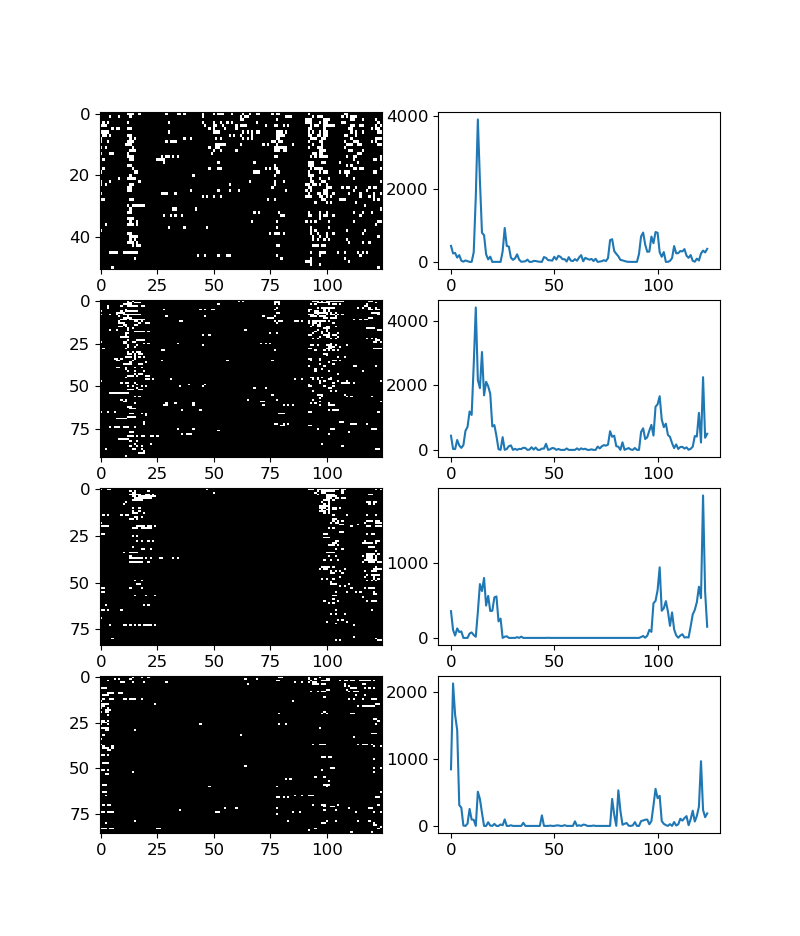
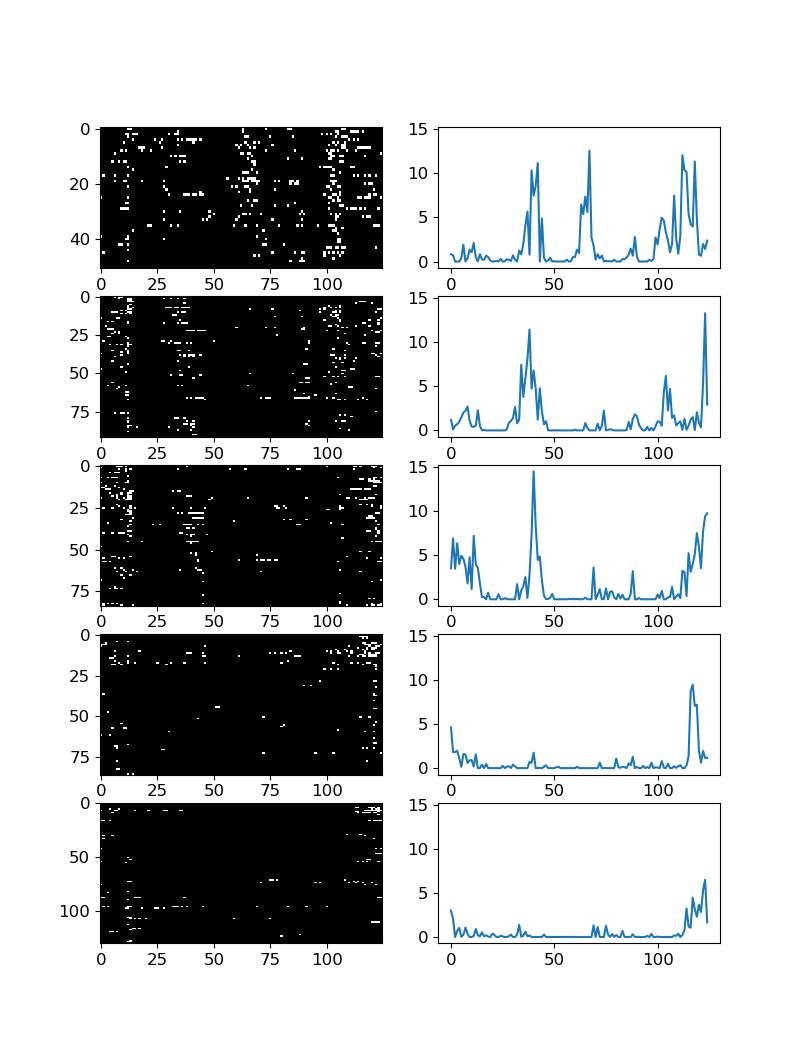
Added normalization to place field tuning curve plots

diff --git a/CircleTrack/plotting.py b/CircleTrack/plotting.py
@@ -88,4 +88,14 @@ def plot_daily_rasters(ScrollObj):
         axs[day, 0].imshow(raster[ScrollObj.current_position], cmap='gray', aspect='auto')
         axs[day, 1].plot(tuning_curve[ScrollObj.current_position])
 
+    ymax = []
+    ymin = []
+    for ax in axs:
+        ylims = ax[1].get_ylim()
+        ymin.append(ylims[0])
+        ymax.append(ylims[1])
+
+    for ax in axs:
+        ax[1].set_ylim([min(ymin), max(ymax)])
+
     ScrollObj.last_position = rasters[0].shape[0] - 1
